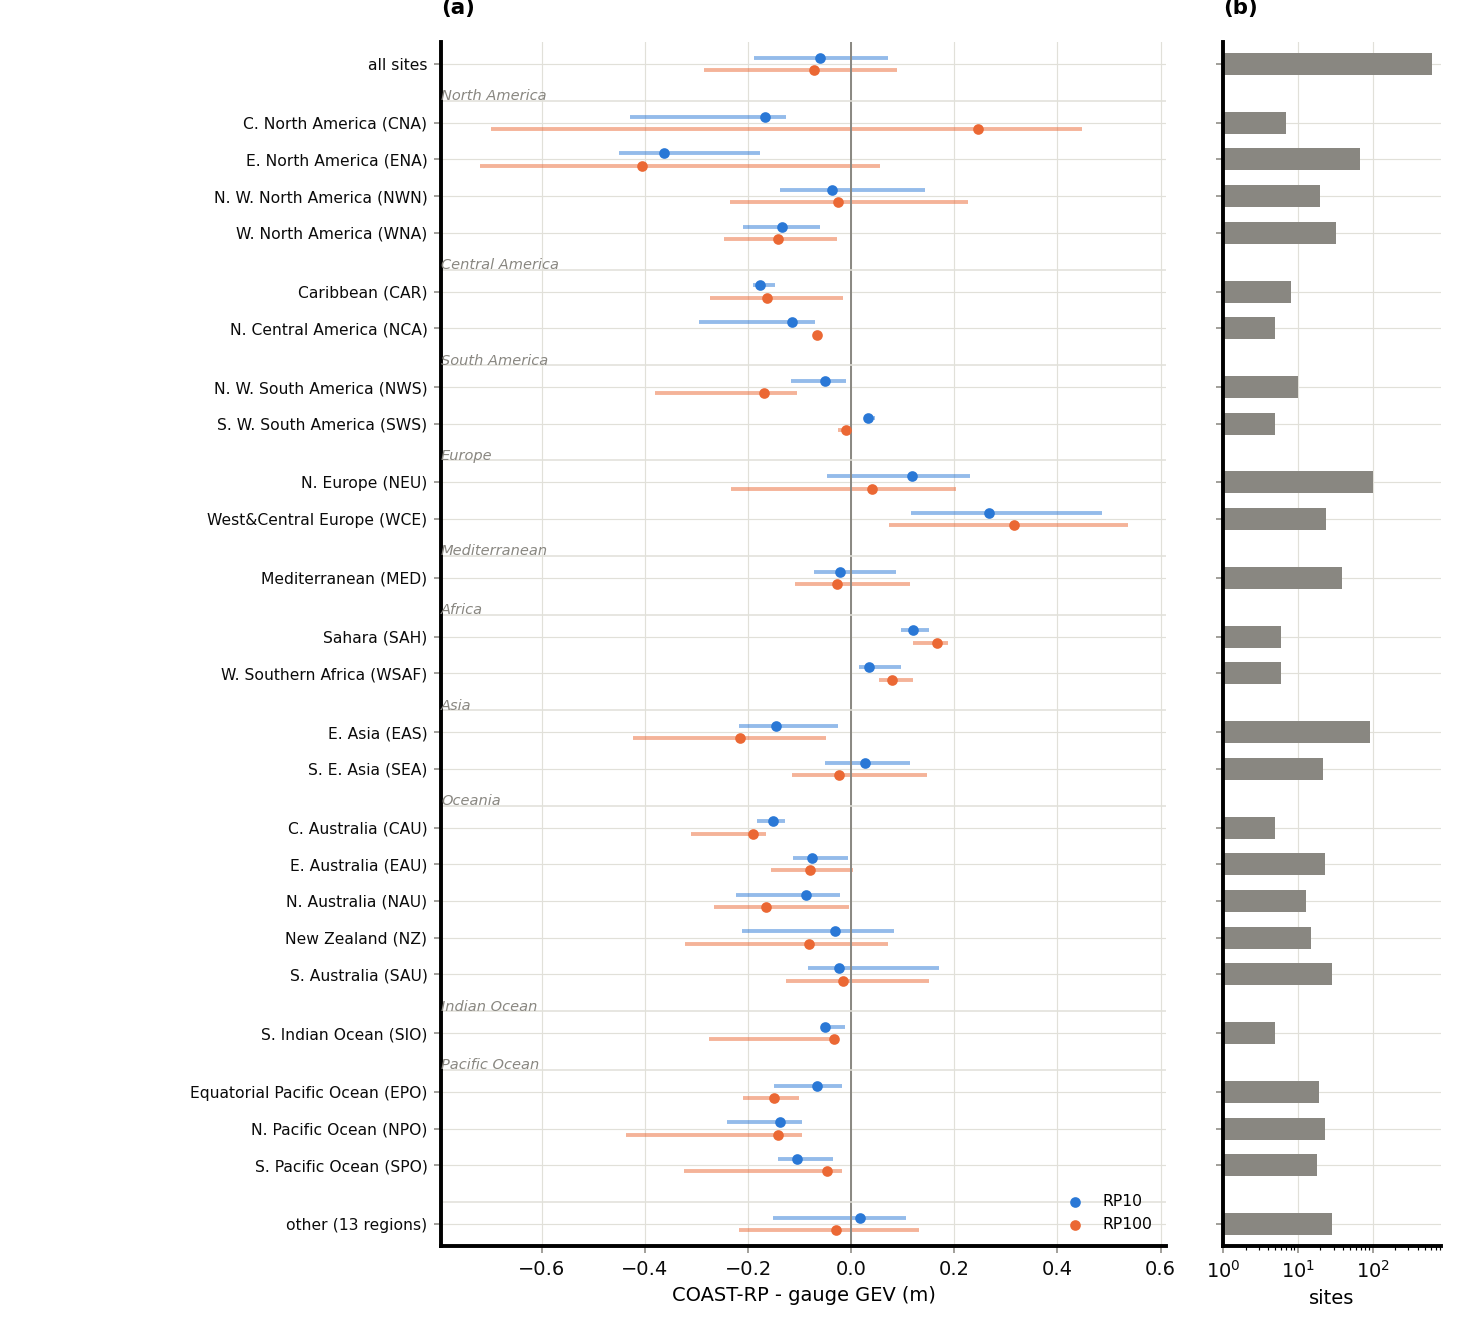
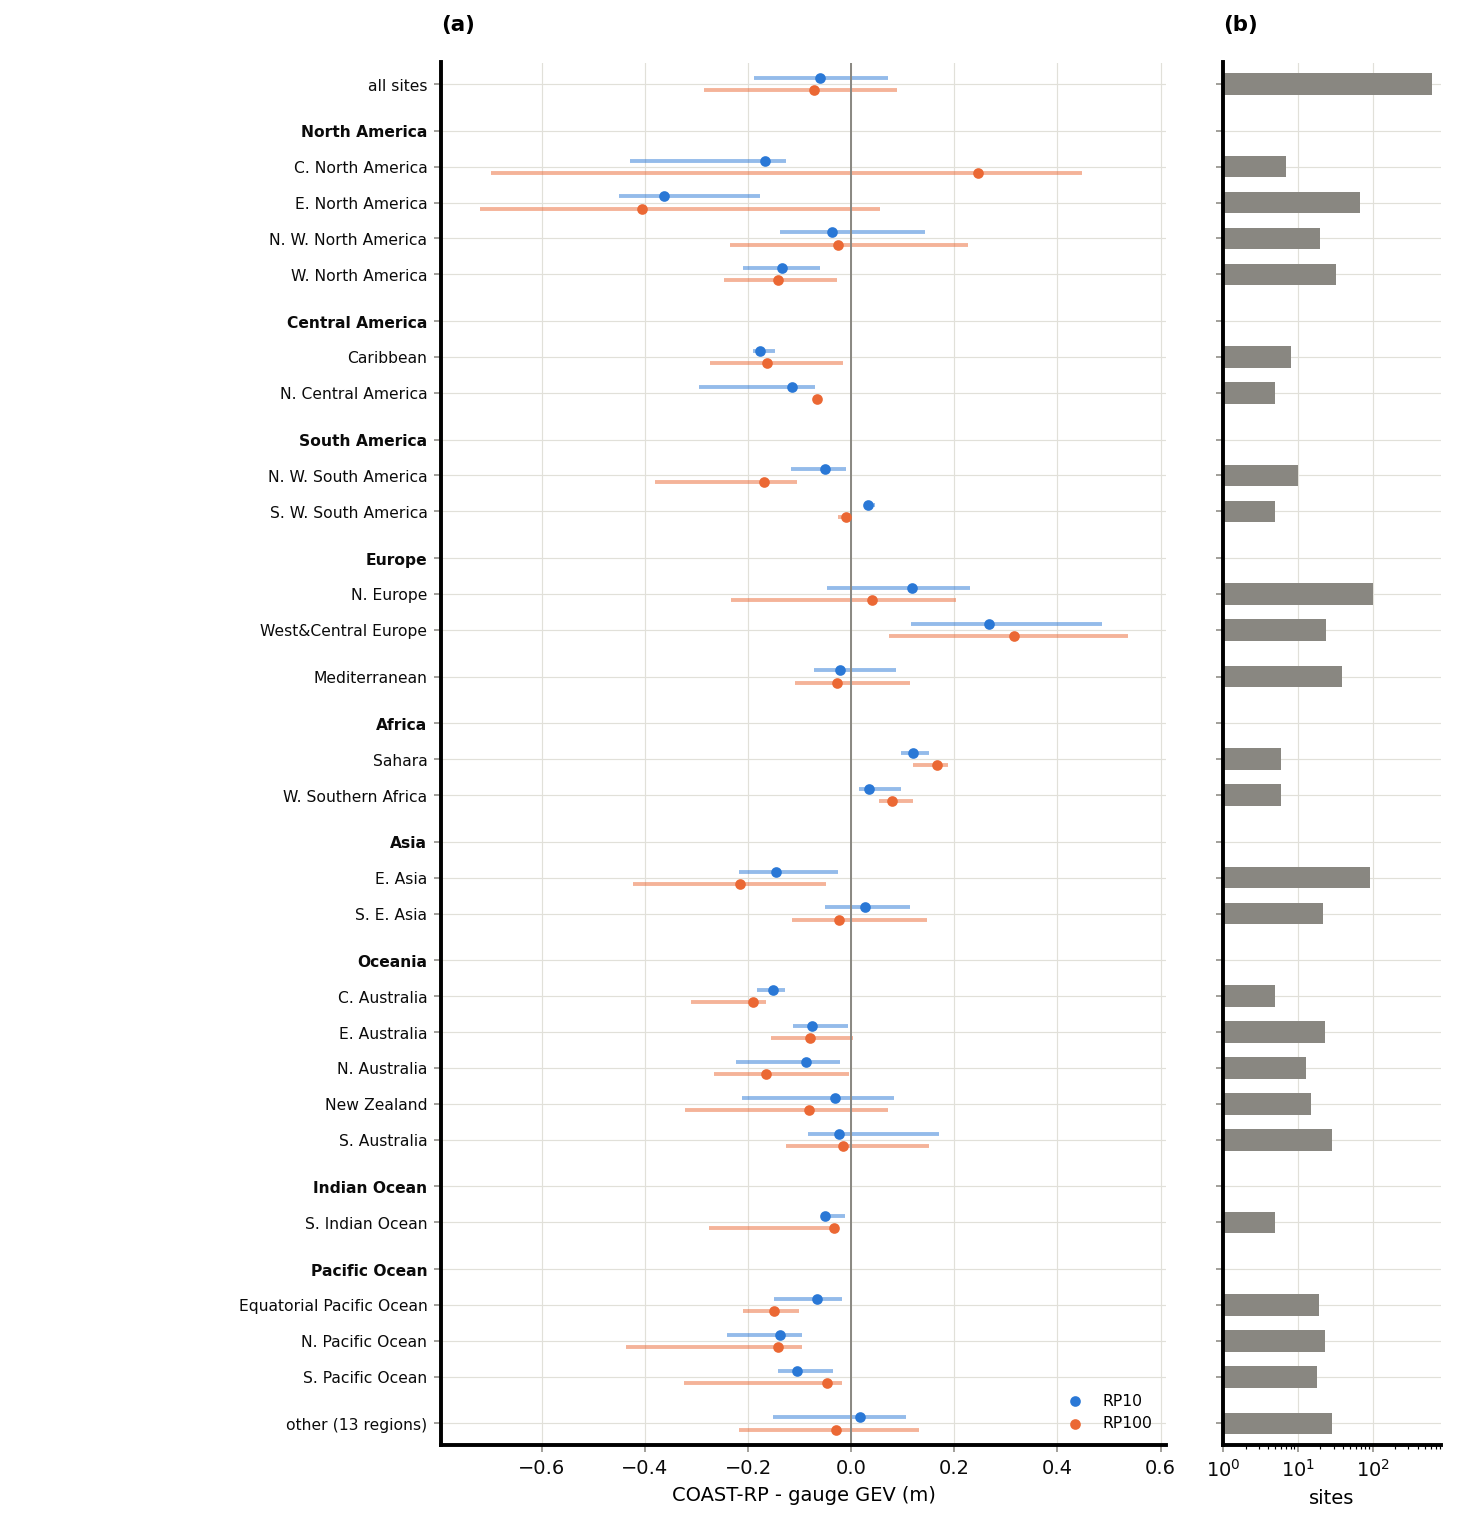
input analysis figures: fig05 2x2 basin pairs with shared scale and replacement ovals, fig06 node-count panel (figS1 dropped), fig07 continent rows

diff --git a/input_analysis/make_boundary_forcing_figures.py b/input_analysis/make_boundary_forcing_figures.py
@@ -414,11 +414,12 @@ def fig07_coast_rp_regions(out: Path, dest: Path) -> None:
     reg = ar6_regions(sets.loc[d.index, "lon"].to_numpy(), sets.loc[d.index, "lat"].to_numpy())
     reg.index = d.index
     name = (reg.region_name.str.replace("Equatorial.", "Equatorial ", regex=False)
-            .str.replace(".", ". ", regex=False).str.replace("-", " ") + " (" + reg.region + ")")
+            .str.replace(".", ". ", regex=False).str.replace("-", " "))
     counts = name.value_counts()
     small = set(counts.index[counts < MIN_REGION_SITES])
     d["label"] = np.where(name.isin(small), f"other ({len(small)} regions)", name)
     d["continent"] = np.where(name.isin(small), "OTHER", reg.continent)
+    pooled = ", ".join(f"{r} ({counts[r]})" for r in sorted(small))
 
     def stats(g: pd.DataFrame) -> dict:
         return {"n": len(g), **{f"{q}_{rp}": g[rp].quantile(v) for rp in (10, 100)
@@ -431,12 +432,18 @@ def fig07_coast_rp_regions(out: Path, dest: Path) -> None:
             rows.append((label, cont, stats(g[g.label == label])))
     st = pd.DataFrame([r[2] for r in rows], index=[r[0] for r in rows])
     st["continent"] = [r[1] for r in rows]
-    y, labels, ypos, heads = [], [], 0.0, []
+    y, ticks, labels, heads, ypos = [], [], [], [], 0.0
     for k, (label, cont) in enumerate(zip(st.index, st.continent)):
         if k > 0 and cont != st.continent.iloc[k - 1]:
-            ypos += 0.6
-            heads.append((ypos - 0.55, GROUP_LABELS.get(cont, cont.title().replace("-", " "))))
+            ypos += 0.3
+            head = GROUP_LABELS.get(cont, cont.title().replace("-", " "))
+            if head and list(st.index[st.continent == cont]) != [head]:
+                ticks.append(ypos)
+                labels.append(head)
+                heads.append(ypos)
+                ypos += 1
         y.append(ypos)
+        ticks.append(ypos)
         labels.append(label)
         ypos += 1
     y = np.array(y)
@@ -450,11 +457,10 @@ def fig07_coast_rp_regions(out: Path, dest: Path) -> None:
         ax.hlines(y + dy, st[f"p25_{rp}"], st[f"p75_{rp}"], color=RP_COLORS[rp], linewidth=2, alpha=0.5)
         ax.scatter(st[f"med_{rp}"], y + dy, color=RP_COLORS[rp], s=20, zorder=3, label=f"RP{rp}")
     ax.axvline(0, color=MUTED, linewidth=1)
-    for yh, text in heads:
-        ax.axhline(yh - 0.05, color=GRID, linewidth=0.8)
-        if text:
-            ax.text(lo - pad, yh + 0.02, text, fontsize=7.5, color=MUTED, ha="left", va="bottom", style="italic")
-    ax.set_yticks(y, labels, fontsize=8)
+    ax.set_yticks(ticks, labels, fontsize=8)
+    for tick, label in zip(ax.get_yticklabels(), labels):
+        if ticks[labels.index(label)] in heads:
+            tick.set_fontweight("bold")
     ax.set(xlim=(lo - pad, hi + pad), ylim=(ypos - 0.4, -0.6), xlabel="COAST-RP - gauge GEV (m)")
     ax.legend(frameon=False, loc="lower right", fontsize=8)
     _style(ax)
@@ -465,7 +471,7 @@ def fig07_coast_rp_regions(out: Path, dest: Path) -> None:
     plt.setp(ax2.get_yticklabels(), visible=False)
     _style(ax2)
     draw_panel_letter(ax2, "b")
-    fig.subplots_adjust(left=0.3, right=0.98, bottom=0.65 / (0.25 * ypos + 1.4), top=1 - 0.3 / (0.25 * ypos + 1.4))
+    fig.subplots_adjust(left=0.3, right=0.98, bottom=0.65 / (0.25 * ypos + 1.4), top=1 - 0.45 / (0.25 * ypos + 1.4))
     _save(fig, dest / "fig07_coast_rp_vs_gauges.png")
     st.drop(columns="continent").round(3).to_csv(dest / "fig07_coast_rp_vs_gauges_data.csv")
     describe(dest / "fig07_coast_rp_vs_gauges.png", f"""
@@ -482,10 +488,10 @@ def fig07_coast_rp_regions(out: Path, dest: Path) -> None:
         Order: regions are grouped by their AR6 continent in a fixed geographic order (North,
         Central and South America, Europe, the Mediterranean, Africa, Asia, Oceania, the polar land
         regions, then the ocean regions of remote islands: Atlantic, Indian, Pacific, Arctic,
-        Southern), alphabetically within each group; the italic labels name the groups. Each gauge
+        Southern), alphabetically within each group; the bold rows name the groups. Each gauge
         takes the nearest AR6 land region within 200 km, otherwise the AR6 ocean region containing
-        it. Regions with fewer than {MIN_REGION_SITES} sites are pooled in the last row. The
-        numbers are in fig07_coast_rp_vs_gauges_data.csv.
+        it. The {len(small)} regions with fewer than {MIN_REGION_SITES} sites are pooled in the last
+        row: {pooled}. The numbers are in fig07_coast_rp_vs_gauges_data.csv.
 
         Reading: overall COAST-RP is {st.loc['all sites', 'med_10']:+.2f} m (RP10) and
         {st.loc['all sites', 'med_100']:+.2f} m (RP100) relative to the gauges. That near-zero
@@ -563,11 +569,23 @@ FIG05_BASINS = {"Minas Basin / Cobequid Bay": (-65.2, -63.2, 44.9, 45.6),
                 "Upper Gulf of California": (-115.3, -113.0, 30.3, 32.2),
                 "Glacier Bay / Lynn Canal": (-137.2, -134.2, 58.2, 59.6)}
 BASIN_PAD = 0.08
+CLUSTER_EPS_DEG = 0.1  # about three FES2022 grid cells
+RING_PAD_DEG = 0.03
+
+
+def _replaced_clusters(lon: np.ndarray, lat: np.ndarray) -> list[tuple[np.ndarray, np.ndarray]]:
+    from sklearn.cluster import DBSCAN
+
+    if not len(lon):
+        return []
+    labels = DBSCAN(eps=CLUSTER_EPS_DEG, min_samples=1).fit_predict(np.column_stack([lon, lat]))
+    return [(lon[labels == k], lat[labels == k]) for k in np.unique(labels)]
 
 
 def fig05_basin_heads(out: Path, dest: Path) -> None:
     import cartopy.io.shapereader as shpreader
     import geopandas as gpd
+    from matplotlib.patches import Ellipse
     from shapely.geometry import box
 
     n = _nodes(out)
@@ -577,69 +595,80 @@ def fig05_basin_heads(out: Path, dest: Path) -> None:
     for name, (x0, x1, y0, y1) in FIG05_BASINS.items():
         b = n[n.node_lon.between(x0, x1) & n.node_lat.between(y0, y1)]
         gb = g[g.lon.between(x0, x1) & g.lat.between(y0, y1)]
-        lons = np.concatenate([b.node_lon, gb.lon])
-        lats = np.concatenate([b.node_lat, gb.lat])
-        px = max(BASIN_PAD * np.ptp(lons), 0.05)
-        py = max(BASIN_PAD * np.ptp(lats), 0.05)
+        lons, lats = np.concatenate([b.node_lon, gb.lon]), np.concatenate([b.node_lat, gb.lat])
+        px, py = max(BASIN_PAD * np.ptp(lons), 0.05), max(BASIN_PAD * np.ptp(lats), 0.05)
         ext = (lons.min() - px, lons.max() + px, lats.min() - py, lats.max() + py)
         stretch = 1 / np.cos(np.radians(np.mean(ext[2:])))
-        aspect = (ext[1] - ext[0]) / ((ext[3] - ext[2]) * stretch)
-        basins.append((name, b, gb, ext, stretch, aspect))
-    fig_w, left, gap, top, mid, cbar_h = 17.0, 0.25, 0.35, 0.35, 0.32, 0.9
-    map_h = (fig_w - 2 * left - gap * (len(basins) - 1)) / sum(b[5] for b in basins)
-    fig_h = top + 2 * map_h + mid + cbar_h
+        basins.append({"name": name, "b": b, "gb": gb, "ext": ext, "stretch": stretch,
+                       "aspect": (ext[1] - ext[0]) / ((ext[3] - ext[2]) * stretch)})
+    vmax = float(max(np.nanmax(d["b"][["fes2022_mhws_m", "fes2014_mhws_m"]].to_numpy()) for d in basins))
+    norm = Normalize(0, vmax)
+    fig_w, left, gap, top, mid, row_gap, cbar_h = 13.0, 0.25, 0.45, 0.35, 0.32, 0.55, 0.95
+    rows = (basins[:2], basins[2:])
+    heights = [(fig_w - 2 * left - gap) / sum(d["aspect"] for d in row) for row in rows]
+    fig_h = top + sum(2 * h + mid for h in heights) + row_gap + cbar_h
     fig = plt.figure(figsize=(fig_w, fig_h))
-    x = left
-    summary = []
-    for j, (name, b, gb, ext, stretch, aspect) in enumerate(basins):
-        w = aspect * map_h
-        vmax = float(np.nanmax(b[["fes2022_mhws_m", "fes2014_mhws_m"]].to_numpy()))
-        norm = Normalize(0, vmax)
-        clip = land.clip(box(ext[0], ext[2], ext[1], ext[3]))
-        frame = plt.Rectangle(((x - 0.12) / fig_w, (cbar_h - 0.62) / fig_h), (w + 0.24) / fig_w,
-                              (2 * map_h + mid + 0.62 + 0.28) / fig_h, transform=fig.transFigure,
-                              fill=False, edgecolor=GRID, linewidth=1.2)
-        fig.add_artist(frame)
-        sc = None
-        for i, col in enumerate(("fes2022_mhws_m", "fes2014_mhws_m")):
-            y0 = cbar_h + (1 - i) * (map_h + mid)
-            ax = fig.add_axes([x / fig_w, y0 / fig_h, w / fig_w, map_h / fig_h])
-            clip.plot(ax=ax, color=LAND_COLOR, edgecolor="none", zorder=0)
+    y_top = fig_h - top
+    summary, sc = [], None
+    for r, (row, h) in enumerate(zip(rows, heights)):
+        x = left
+        for c, d in enumerate(row):
+            letter = "abcd"[2 * r + c]
+            w = d["aspect"] * h
+            b, gb, ext = d["b"], d["gb"], d["ext"]
+            clip = land.clip(box(ext[0], ext[2], ext[1], ext[3]))
             keep, rep = b[~b.replaced], b[b.replaced]
-            sc = ax.scatter(keep.node_lon, keep.node_lat, c=keep[col], s=14, cmap="viridis", norm=norm,
-                            linewidths=0, zorder=2)
-            ax.scatter(rep.node_lon, rep.node_lat, c=rep[col], s=28, marker="X", cmap="viridis", norm=norm,
-                       linewidths=0.3, edgecolors=INK, zorder=3)
-            ax.scatter(gb.lon, gb.lat, c=gb.gesla_harm__mhws_m, s=70, marker="^", cmap="viridis", norm=norm,
-                       edgecolors=INK, linewidths=0.8, zorder=4)
-            ax.set(xlim=ext[:2], ylim=ext[2:], xticks=[], yticks=[])
-            ax.set_aspect(stretch, adjustable="datalim")
-            for side in ax.spines.values():
-                side.set_edgecolor(MUTED)
-            draw_panel_letter(ax, "abcdefgh"[2 * j + i])
-        cax = fig.add_axes([(x + 0.1 * w) / fig_w, (cbar_h - 0.42) / fig_h, 0.8 * w / fig_w, 0.12 / fig_h])
-        cb = fig.colorbar(sc, cax=cax, orientation="horizontal")
-        cb.set_label("MHWS (m)", fontsize=8)
-        cb.ax.tick_params(labelsize=7.5)
-        summary.append(f"({'aceg'[j]}, {'bdfh'[j]}) {name}: {len(b)} nodes, {int(b.replaced.sum())} replaced; "
-                       f"FES2022 MHWS max {b.fes2022_mhws_m.max():.1f} m, FES2014 max {b.fes2014_mhws_m.max():.1f} m"
-                       + ("; gauges: " + ", ".join(f"{r.site_name} {r.gesla_harm__mhws_m:.2f} m"
-                                                   for r in gb.itertuples()) if len(gb) else "; no gauge"))
-        x += w + gap
+            clusters = _replaced_clusters(rep.node_lon.to_numpy(), rep.node_lat.to_numpy())
+            for i, (col, rep_marker) in enumerate((("fes2022_mhws_m", "X"), ("fes2014_mhws_m", "D"))):
+                y0 = y_top - h - i * (h + mid)
+                ax = fig.add_axes([x / fig_w, y0 / fig_h, w / fig_w, h / fig_h])
+                clip.plot(ax=ax, color=LAND_COLOR, edgecolor="none", zorder=0)
+                sc = ax.scatter(keep.node_lon, keep.node_lat, c=keep[col], s=14, cmap="viridis", norm=norm,
+                                linewidths=0, zorder=2)
+                ax.scatter(rep.node_lon, rep.node_lat, c=rep[col], s=26, marker=rep_marker, cmap="viridis",
+                           norm=norm, linewidths=0.3, edgecolors=INK, zorder=3)
+                ax.scatter(gb.lon, gb.lat, c=gb.gesla_harm__mhws_m, s=120, marker="*", cmap="viridis", norm=norm,
+                           edgecolors=INK, linewidths=0.7, zorder=4)
+                for clon, clat in clusters:
+                    # sqrt(2) makes the axis-aligned ellipse pass through the box corners, so it encloses all nodes
+                    ax.add_patch(Ellipse(((clon.min() + clon.max()) / 2, (clat.min() + clat.max()) / 2),
+                                         np.sqrt(2) * np.ptp(clon) + 2 * RING_PAD_DEG * d["stretch"],
+                                         np.sqrt(2) * np.ptp(clat) + 2 * RING_PAD_DEG, fill=False,
+                                         edgecolor="#e34948", linewidth=1.1, zorder=5))
+                ax.set(xlim=ext[:2], ylim=ext[2:], xticks=[], yticks=[])
+                ax.set_aspect(d["stretch"], adjustable="datalim")
+                for side in ax.spines.values():
+                    side.set_edgecolor(MUTED)
+                draw_panel_letter(ax, f"{letter}{i + 1}")
+            summary.append(f"({letter}1, {letter}2) {d['name']}: {len(b)} nodes, {int(b.replaced.sum())} replaced in "
+                           f"{len(clusters)} cluster(s); FES2022 MHWS max {b.fes2022_mhws_m.max():.1f} m, FES2014 max "
+                           f"{b.fes2014_mhws_m.max():.1f} m"
+                           + ("; gauges: " + ", ".join(f"{q.site_name} {q.gesla_harm__mhws_m:.2f} m"
+                                                       for q in gb.itertuples()) if len(gb) else "; no gauge"))
+            x += w + gap
+        y_top -= 2 * h + mid + row_gap
+    cax = fig.add_axes([0.3, 0.45 / fig_h, 0.4, 0.16 / fig_h])
+    cb = fig.colorbar(sc, cax=cax, orientation="horizontal")
+    cb.set_label("MHWS (m)")
     _save(fig, dest / "fig05_fes_basin_heads.png")
     describe(dest / "fig05_fes_basin_heads.png", f"""
-        MHWS (mean high water springs above local mean sea level) at the FES boundary nodes in
-        the four basins where FES2022 has gross artefacts. Each grey frame is one basin and holds
-        two maps of the same area: FES2022 on top, FES2014 below, at the same nodes. Circles: nodes
-        that keep FES2022 under the version rule; crosses: nodes where the rule replaces FES2022
-        by FES2014 (fig04, fig06). Triangles: GESLA tide gauges, coloured by their observed MHWS.
-        Both maps of a frame share the colour scale below them. Each map is cropped to its nodes
-        and gauges and drawn with the east-west scale corrected for latitude, so shapes are true.
-        Land: Natural Earth 1:50m, grey.
+        MHWS (mean high water springs above local mean sea level) at the FES boundary nodes in the
+        four basins where FES2022 has gross artefacts: (a) Minas Basin / Cobequid Bay, (b) Strait
+        of Magellan / Bahia Lomas, (c) upper Gulf of California, (d) Glacier Bay / Lynn Canal. For
+        each basin the map marked 1 shows FES2022 and the map marked 2 below it FES2014, at the
+        same nodes and over the same area. All maps share the colour scale at the bottom.
+
+        Symbols: circles = nodes that keep FES2022 under the version rule (fig04, fig06). Crosses
+        (maps 1) = FES2022 values the rule discards; diamonds (maps 2) = the FES2014 values that
+        replace them. Red ovals enclose the replaced nodes: nodes closer than about three grid
+        cells form one group, and each oval is the smallest axis-aligned ellipse around the box
+        spanned by the group's westernmost, easternmost, northernmost and southernmost node. Stars = GESLA tide gauges, coloured by their observed
+        MHWS. Each map is cropped to its nodes and gauges and drawn with the east-west scale
+        corrected for latitude, so shapes are true. Land: Natural Earth 1:50m, grey.
 
         {chr(10).join(summary)}
 
-        Observed references without a gauge in the frame: Minas Basin mean spring range 14.5 m,
+        Observed references without a gauge in the map: Minas Basin mean spring range 14.5 m,
         record 16.3 m (MHWS about 7.3 m; Desplanque and Mossman, 2001); Strait of Magellan spring
         range about 9 m on the Atlantic side (Medeiros and Kjerfve, 1988); Colorado mouth spring
         range 7-10 m (Archer, 2013).
@@ -681,14 +710,16 @@ def fig06_rule_sensitivity(out: Path, dest: Path) -> None:
     known = int(grid.known_total.iloc[0])
     grid["known_share"] = grid.known_caught / known
     lim = float(grid.net.abs().max())
-    fig, axes = plt.subplots(1, 2, figsize=(15, 5.8))
+    fig, axes = plt.subplots(1, 3, figsize=(21, 5.8))
     im = _heat(axes[0], grid, "net", lambda r: f"{int(r.gauges_fixed)}/{int(r.gauges_harmed)}", plt.get_cmap("RdBu"),
                TwoSlopeNorm(0, -lim, lim), mark=lambda r: r.gauges_harmed == 0 and r.gauges_fixed == best)
     cb = fig.colorbar(im, ax=axes[0], orientation="horizontal", pad=0.17, shrink=0.6, aspect=30)
     cb.set_label("gauges improved minus gauges made worse")
     _heat(axes[1], grid, "known_share", lambda r: f"{int(r.known_caught)}", plt.get_cmap("Blues"), Normalize(0, 1),
           mark=lambda r: r.known_caught == known)
-    for ax, letter in zip(axes, "ab"):
+    _heat(axes[2], grid, "nodes_replaced", lambda r: f"{int(r.nodes_replaced)}", plt.get_cmap("Oranges"),
+          LogNorm(max(grid.nodes_replaced.min(), 1), grid.nodes_replaced.max()))
+    for ax, letter in zip(axes, "abc"):
         draw_panel_letter(ax, letter)
     fig.tight_layout()
     _save(fig, dest / "fig06_version_rule_sensitivity.png")
@@ -722,11 +753,17 @@ def fig06_rule_sensitivity(out: Path, dest: Path) -> None:
         100%). Dotted squares: pairs that replace all of them. In this range of D the result does
         not depend on D, because the artefacts exceed FES2014 by several metres: only R decides.
 
+        (c) How many of the {len(_nodes(out)):,} FES boundary nodes of the test tiles the candidate
+        rule switches to FES2014 (cell text; colour on a logarithmic scale, darker = more). At the
+        adopted pair this is {int(adopted.nodes_replaced):,} nodes, the red crosses of fig04. Pairs
+        that switch more nodes than needed change FES2022 values on coasts where no evidence says
+        it is wrong.
+
         Reading off the adopted values: (a) leaves the dotted pairs in the column D = 1.25 m (no
         worsening, all {best} improvements; at D <= 1 m Trondheim is switched wrongly, at D = 1.5 m
         Port Alberni is no longer caught). (b) leaves R <= 1.5 (higher R misses artefacts). Of the
         pairs left, R = 1.5 is the largest, i.e. the one that changes the fewest other nodes
-        (figS1). At the adopted pair: {int(adopted.gauges_fixed)} improvements,
+        (c). At the adopted pair: {int(adopted.gauges_fixed)} improvements,
         {int(adopted.gauges_harmed)} worsenings, {int(adopted.known_caught)} of {known} artefacts
         replaced.
 
@@ -738,27 +775,9 @@ def fig06_rule_sensitivity(out: Path, dest: Path) -> None:
         """)
 
 
-def figS1_nodes_replaced(out: Path, dest: Path) -> None:
-    grid = pd.read_csv(out / "analysis" / "atlas_rule_grid.csv")
-    fig, ax = plt.subplots(figsize=(8.5, 5.4))
-    _heat(ax, grid, "nodes_replaced", lambda r: f"{int(r.nodes_replaced)}", plt.get_cmap("Oranges"),
-          LogNorm(max(grid.nodes_replaced.min(), 1), grid.nodes_replaced.max()))
-    fig.tight_layout()
-    _save(fig, dest / "figS1_nodes_replaced.png")
-    total = len(_nodes(out))
-    describe(dest / "figS1_nodes_replaced.png", f"""
-        Internal: number of the {total:,} FES boundary nodes of the test tiles that the version rule
-        switches from FES2022 to FES2014, for each pair of thresholds (R vertical, D horizontal;
-        colour on a logarithmic scale, darker = more nodes). The red frame marks the adopted pair
-        R = {VERSION_RATIO}, D = {VERSION_DIFF_M} m. The rule and the two thresholds are described
-        with fig06.
-        """)
-
-
 FIGURES = {"fig01": fig01_tide_scatter, "fig02": fig02_tide_ratio_maps, "fig03": fig03_constituents,
            "fig04": fig04_fes_versions, "fig05": fig05_basin_heads, "fig06": fig06_rule_sensitivity,
-           "fig07": fig07_coast_rp_regions, "fig08": fig08_profiles_by_rp, "fig09": fig09_surge_by_rp,
-           "figS1": figS1_nodes_replaced}
+           "fig07": fig07_coast_rp_regions, "fig08": fig08_profiles_by_rp, "fig09": fig09_surge_by_rp}
 
 
 def main() -> None:

diff --git a/input_analysis/boundary_forcing/boundary_forcing_input_analysis.md b/input_analysis/boundary_forcing/boundary_forcing_input_analysis.md
@@ -107,7 +107,7 @@ overrides both atlases where one exists. The ratio alone would fire on microtida
 MHWS are centimetres; the difference alone would switch macrotidal coasts where FES2022 is only
 moderately higher. The rule replaces 1,287 nodes (1.25%), concentrated at the basin heads.
 
-**Why 1.5 and 1.25 m** (fig06; figS1 for the node counts). The rule was evaluated for R from 1.1
+**Why 1.5 and 1.25 m** (fig06). The rule was evaluated for R from 1.1
 to 3 and D from 0 to 1.5 m against two kinds of evidence:
 
 1. **The 905 gauges with all three MHWS.** Below a difference of 0.5 m FES2014 is not the better
@@ -263,11 +263,10 @@ Confirmation on 5-10 real 2-D tiles follows once the generator exists (test 8).
 | `fig03_tide_constituent_ratios` | constituent amplitude ratios, GTSM and FES2022 against the gauges |
 | `fig04_fes2022_vs_fes2014` | FES2022 / FES2014 MHWS at all boundary nodes, map and scatter with the rule |
 | `fig05_fes_basin_heads` | FES2022 and FES2014 MHWS in the four basins, replaced nodes and gauges |
-| `fig06_version_rule_sensitivity` | rule thresholds against the gauges and the known artefacts |
+| `fig06_version_rule_sensitivity` | rule thresholds against the gauges, the known artefacts and the number of nodes changed |
 | `fig07_coast_rp_vs_gauges` | COAST-RP minus gauge GEV by AR6 region, RP10 and RP100 |
 | `fig08_profiles_by_rp` | storm-tide profiles by RP class, gauges and GTSM, with COAST-HG |
 | `fig09_surge_by_rp` | surge-only profiles and surge durations by RP class, with COAST-HG's surge |
-| `figS1_nodes_replaced` | internal: number of nodes the rule replaces per threshold pair |
 
 ## References
 
